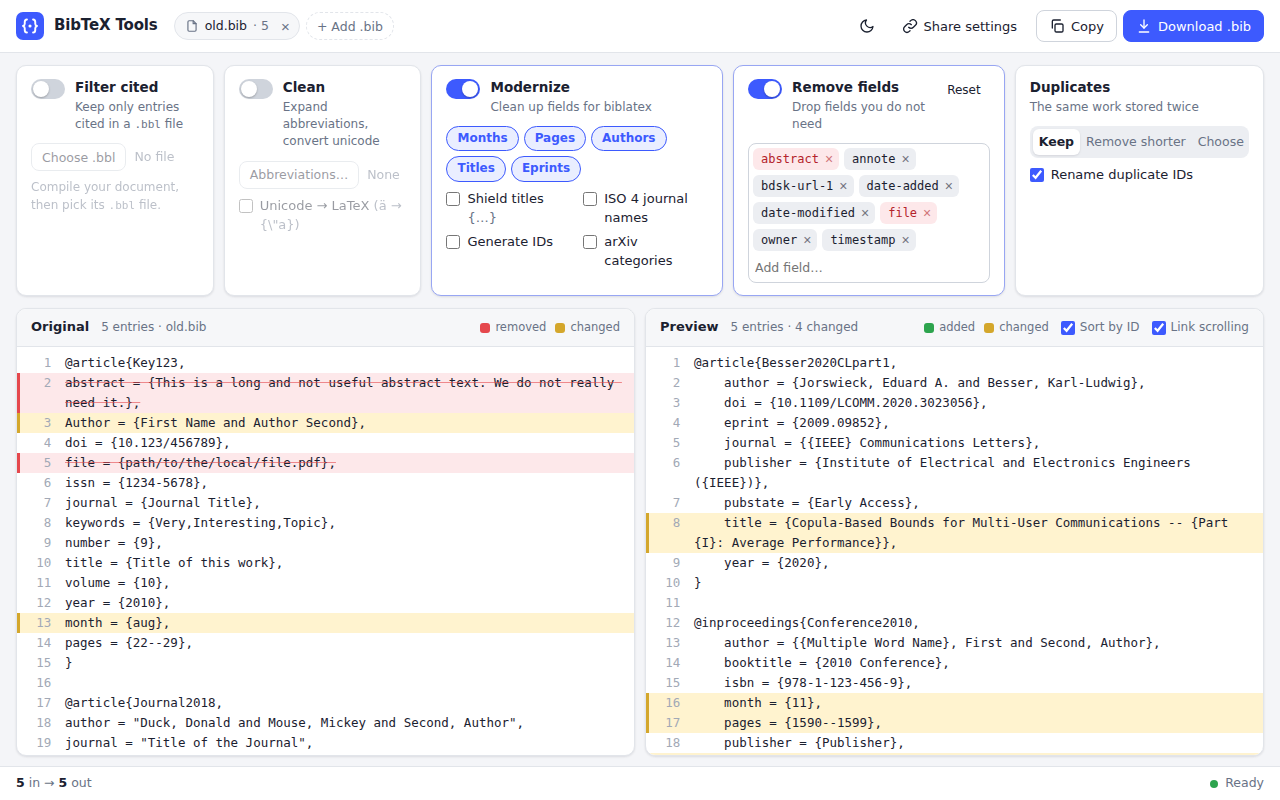
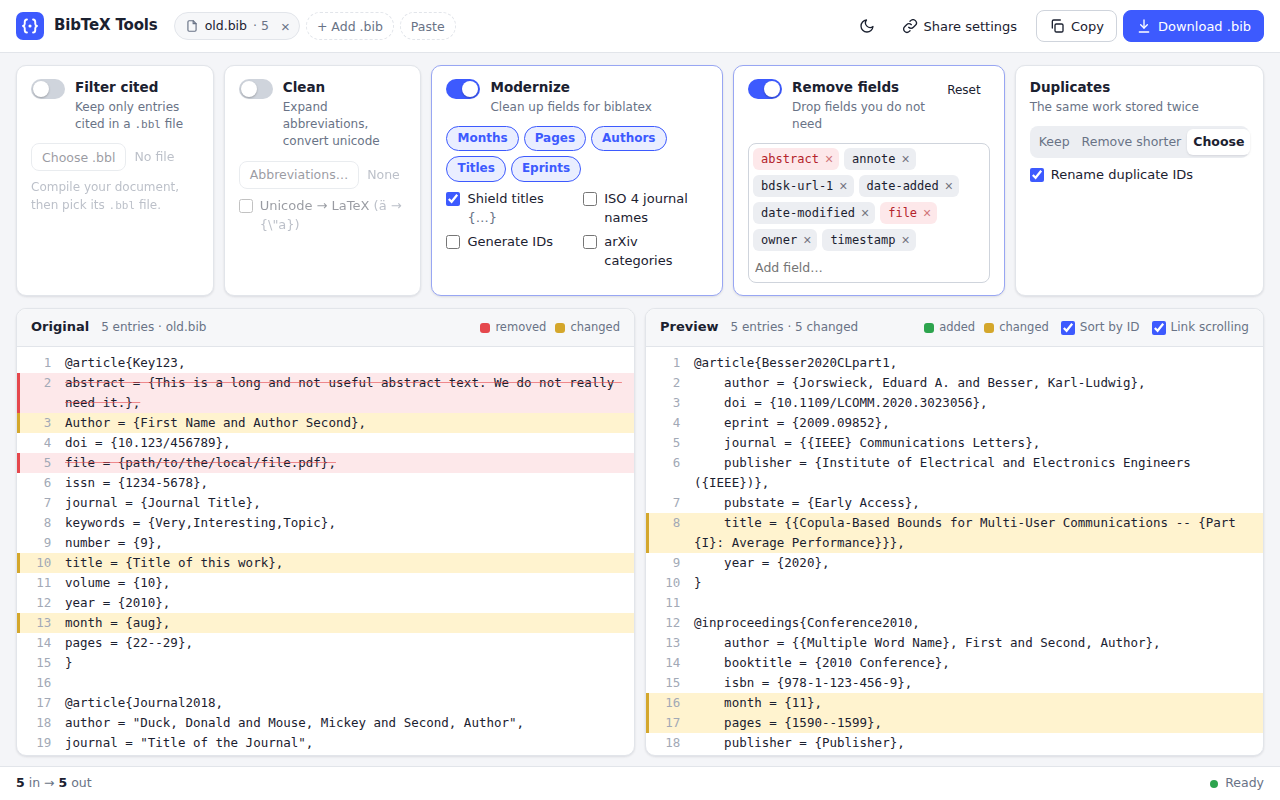
Align the selected entry on both sides and allow pasting BibTeX
- Clicking an entry shows its counterpart at the same height on the other
  side, even if this needs blank space above the first or below the last
  entry. The blank space is removed once it is scrolled out of view. While
  the selected entry is visible, both sides scroll together.
- BibTeX can be pasted anywhere on the page with Ctrl+V, or in a dialog
  from the Paste button. Pasted text is added as another bib file.
- Shield titles and choosing which duplicate entry to remove are on by
  default. The settings are stored under a new key, so that the new
  defaults apply to everybody once.

Claude-Session: https://claude.ai/code/session_015crV5RWQRdw4FFNF6dvHUs

diff --git a/web/app.js b/web/app.js
@@ -4,7 +4,8 @@
 const $ = (selector, root = document) => root.querySelector(selector);
 const $$ = (selector, root = document) => [...root.querySelectorAll(selector)];
 
-const SETTINGS_KEY = "bibtextools.settings.v1";
+// Bumped when the defaults change, so that they apply to everybody once
+const SETTINGS_KEY = "bibtextools.settings.v2";
 const ARXIV_KEY = "bibtextools.arxiv.v1";
 const THEME_KEY = "bibtextools.theme";
 const DUPLICATE_MODES = ["keep", "remove-shorter", "choose"];
@@ -18,9 +19,9 @@ let defaults = {
 const DEFAULT_SETTINGS = {
   filter: { enabled: false },
   clean: { enabled: false, unicode: false },
-  modernize: { enabled: true, fields: null, shield: false, iso4: false, ids: false, arxiv: false },
+  modernize: { enabled: true, fields: null, shield: true, iso4: false, ids: false, arxiv: false },
   remove: { enabled: true, fields: null },
-  duplicates: { mode: "keep", rename: true },
+  duplicates: { mode: "choose", rename: true },
   sort: true,
 };
 
@@ -43,9 +44,18 @@ const state = {
   lastPane: "preview",
 };
 
+// Each pane has blank space above and below its content, which lets an entry
+// be shown at any height, e.g., to align it with the selected entry
+function makePane(el) {
+  const [padTop, content, padBottom] = ["pad", "content", "pad"].map((cls) =>
+    Object.assign(document.createElement("div"), { className: cls }));
+  el.append(padTop, content, padBottom);
+  return { el, content, padTop, padBottom, top: 0, bottom: 0, entries: [], byOrigin: new Map() };
+}
+
 const panes = {
-  original: { el: $("#original"), entries: [], byOrigin: new Map() },
-  preview: { el: $("#preview"), entries: [], byOrigin: new Map() },
+  original: makePane($("#original")),
+  preview: makePane($("#preview")),
 };
 
 /* Helpers */
@@ -86,7 +96,9 @@ function merge(base, extra) {
 
 
 function validSettings(settings) {
-  if (!DUPLICATE_MODES.includes(settings.duplicates.mode)) settings.duplicates.mode = "keep";
+  if (!DUPLICATE_MODES.includes(settings.duplicates.mode)) {
+    settings.duplicates.mode = DEFAULT_SETTINGS.duplicates.mode;
+  }
   return settings;
 }
 
@@ -373,8 +385,10 @@ function setSources(sources) {
   state.error = null;
   state.selected = null;
   document.body.classList.toggle("has-files", sources.length > 0);
-  panes.original.el.scrollTop = 0;
-  panes.preview.el.scrollTop = 0;
+  for (const pane of Object.values(panes)) {
+    setPad(pane, 0, 0);
+    pane.el.scrollTop = 0;
+  }
   render();
   schedule(0);
 }
@@ -421,6 +435,71 @@ document.addEventListener("click", (event) => {
   if (clear) setAuxFile(clear.dataset.clear, null);
 });
 
+/* Paste */
+
+const pasteDialog = $("#paste-dialog");
+const looksLikeBib = (text) => /@\s*\w+\s*[{(]/.test(text);
+
+function pastedName() {
+  const names = new Set(state.sources.map((source) => source.name));
+  let name = "pasted.bib";
+  for (let i = 2; names.has(name); i++) name = `pasted-${i}.bib`;
+  return name;
+}
+
+// Add pasted BibTeX as another bib file. Returns whether it was added.
+function addPasted(text) {
+  if (!looksLikeBib(text)) return false;
+  const name = pastedName();
+  setSources([...state.sources, { name, text }]);
+  toast(`Added the pasted text as ${name}`);
+  return true;
+}
+
+function openPasteDialog() {
+  $("#paste-text").value = "";
+  $("#paste-error").textContent = "";
+  pasteDialog.showModal();
+  $("#paste-text").focus();
+}
+
+function addFromDialog() {
+  const text = $("#paste-text").value;
+  if (addPasted(text)) pasteDialog.close();
+  else $("#paste-error").textContent = "This does not look like BibTeX: no entry like @article{…} found.";
+}
+
+$("#paste-add").addEventListener("click", addFromDialog);
+$("#paste-text").addEventListener("input", () => { $("#paste-error").textContent = ""; });
+$("#paste-text").addEventListener("keydown", (event) => {
+  if (event.key === "Enter" && (event.ctrlKey || event.metaKey)) addFromDialog();
+});
+pasteDialog.addEventListener("click", (event) => {
+  if (event.target === pasteDialog || event.target.closest("[data-dialog-close]")) pasteDialog.close();
+});
+document.addEventListener("click", (event) => {
+  if (event.target.closest("[data-paste]")) openPasteDialog();
+});
+
+// Paste anywhere on the page, except into fields and dialogs
+document.addEventListener("paste", async (event) => {
+  if (event.target.closest("input, textarea, [contenteditable]") || document.querySelector("dialog[open]")) return;
+  const data = event.clipboardData;
+  if (data.files.length) {
+    event.preventDefault();
+    await openFiles(data.files);
+    return;
+  }
+  const text = data.getData("text/plain");
+  if (!text.trim()) return;
+  event.preventDefault();
+  if (!addPasted(text)) toast("The pasted text does not look like BibTeX");
+});
+
+if (/Mac|iPhone|iPad/.test(navigator.platform)) {
+  $$(".paste-key").forEach((key) => { key.textContent = "⌘V"; });
+}
+
 $("#example").addEventListener("click", async () => {
   const response = await fetch("examples/old.bib");
   setSources([{ name: "old.bib", text: await response.text() }]);
@@ -455,7 +534,12 @@ function renderFiles() {
     add.textContent = "+ Add .bib";
     add.title = "Add another bib file to combine them";
     add.dataset.pick = "bib";
-    files.append(add);
+    const paste = document.createElement("button");
+    paste.className = "chip add";
+    paste.textContent = "Paste";
+    paste.title = "Paste BibTeX to add it";
+    paste.dataset.paste = "";
+    files.append(add, paste);
   }
 }
 
@@ -565,13 +649,13 @@ function renderOriginal(outByOrigin, unresolved) {
     }
     for (let i = next; i < lines.length; i++) parts.push(lineHtml(i + 1, lines[i]));
   });
-  panes.original.el.innerHTML = parts.join("");
+  panes.original.content.innerHTML = parts.join("");
 }
 
 function renderPreview(unresolved) {
   const r = state.response;
   if (!r) {
-    panes.preview.el.innerHTML = "";
+    panes.preview.content.innerHTML = "";
     return;
   }
   const parts = [];
@@ -601,7 +685,7 @@ function renderPreview(unresolved) {
   if (!r.entries.length) {
     parts.push(`<div class="l"><span class="n"></span><span class="t muted">No entries left with these settings.</span></div>`);
   }
-  panes.preview.el.innerHTML = parts.join("");
+  panes.preview.content.innerHTML = parts.join("");
 }
 
 function indexPane(pane) {
@@ -742,26 +826,74 @@ function restoreAnchor(pane, anchor) {
   pane.el.scrollTop = el ? el.offsetTop + anchor.offset : anchor.offset;
 }
 
+/* Positions without the blank space above the content ("view") */
+
+const contentTop = (pane, el) => el.offsetTop - pane.top;
+const view = (pane) => pane.el.scrollTop - pane.top;
+const maxView = (pane) =>
+  Math.max(0, pane.el.scrollHeight - pane.top - pane.bottom - pane.el.clientHeight);
+const viewOffset = (pane, el) => el.offsetTop - pane.el.scrollTop;
+
+function setPad(pane, top, bottom) {
+  if (top !== pane.top) {
+    pane.top = top;
+    pane.padTop.style.height = `${top}px`;
+  }
+  if (bottom !== pane.bottom) {
+    pane.bottom = bottom;
+    pane.padBottom.style.height = `${bottom}px`;
+  }
+}
+
+// Scroll the pane to a view position, with blank space where there is no
+// content, e.g., a negative view shows blank space above the first line
+function setView(pane, position) {
+  const max = maxView(pane);
+  setPad(pane, Math.max(0, Math.round(-position)), Math.max(0, Math.round(position - max)));
+  setScroll(pane, position + pane.top);
+}
+
+// Remove the blank space when it is scrolled out of view
+function trimPads(pane) {
+  const position = view(pane);
+  const top = position >= 0 ? 0 : pane.top;
+  const bottom = position <= maxView(pane) ? 0 : pane.bottom;
+  if (top === pane.top && bottom === pane.bottom) return;
+  setPad(pane, top, bottom);
+  setScroll(pane, position + top);
+}
+
+const isVisible = (pane, el) =>
+  viewOffset(pane, el) < pane.el.clientHeight && viewOffset(pane, el) + el.offsetHeight > 0;
+
 let syncing = null;
 
 function syncScroll(from, to) {
   if (!from.entries.length || !to.entries.length) return;
+  // Keep the selected entry at the same height on both sides while it is visible
+  const selected = state.selected && from.byOrigin.get(state.selected);
+  const counterpart = state.selected && to.byOrigin.get(state.selected);
+  if (selected && counterpart && isVisible(from, selected)) {
+    setView(to, contentTop(to, counterpart) - viewOffset(from, selected));
+    return;
+  }
   const y = from.el.scrollTop;
   let idx = entryAt(from, y);
   if (idx < 0) {
-    setScroll(to, 0);
+    setView(to, 0);
     return;
   }
   const el = from.entries[idx];
   const fraction = Math.min(1, (y - el.offsetTop) / Math.max(1, el.offsetHeight));
   // Removed entries have no counterpart: use the next entry that has one
   let target = to.byOrigin.get(el.dataset.origin);
-  let exact = Boolean(target);
+  const exact = Boolean(target);
   while (!target && ++idx < from.entries.length) {
     target = to.byOrigin.get(from.entries[idx].dataset.origin);
   }
   if (!target) return;
-  setScroll(to, exact ? target.offsetTop + fraction * target.offsetHeight : target.offsetTop);
+  const position = contentTop(to, target) + (exact ? fraction * target.offsetHeight : 0);
+  setView(to, Math.min(position, maxView(to)));
 }
 
 function setScroll(pane, top) {
@@ -774,6 +906,8 @@ function setScroll(pane, top) {
 for (const name of ["original", "preview"]) {
   const pane = panes[name];
   pane.el.addEventListener("scroll", () => {
+    clearTimeout(pane.trimTimer);
+    pane.trimTimer = setTimeout(() => trimPads(pane), 250);
     if (syncing === pane) return;
     state.lastPane = name;
     if (state.linkScroll) syncScroll(pane, panes[other(name)]);
@@ -790,8 +924,10 @@ for (const name of ["original", "preview"]) {
   });
 }
 
+// Select an entry on one side and show it at the same height on the other
 function select(origin, fromName) {
   state.selected = state.selected === origin ? null : origin;
+  state.lastPane = fromName;
   for (const pane of Object.values(panes)) {
     pane.entries.forEach((el) => el.classList.toggle("selected", el.dataset.origin === state.selected));
   }
@@ -800,7 +936,7 @@ function select(origin, fromName) {
   const to = panes[other(fromName)];
   const el = from.byOrigin.get(origin);
   const target = to.byOrigin.get(origin);
-  if (el && target) setScroll(to, target.offsetTop - (el.offsetTop - from.el.scrollTop));
+  if (el && target) setView(to, contentTop(to, target) - viewOffset(from, el));
 }
 
 /* Duplicates dialog */

diff --git a/web/style.css b/web/style.css
@@ -364,6 +364,7 @@ h1, h2, h3 { margin: 0; }
   flex: 1;
   min-height: 0;
   overflow: auto;
+  overflow-anchor: none;
   position: relative;
   padding: 6px 0 24px;
   font: 12.5px/1.6 var(--code-font);
@@ -475,6 +476,15 @@ body.dragging .drop-card { border-color: var(--accent); background: var(--accent
 .drop-card h1 { font-size: 20px; font-weight: 650; letter-spacing: -.01em; }
 .drop-card > p { margin: 8px auto 0; color: var(--muted); max-width: 400px; }
 .drop-actions { display: flex; justify-content: center; gap: 10px; margin-top: 22px; }
+.paste-hint { margin: 14px 0 0 !important; font-size: 12.5px; }
+kbd {
+  padding: 1px 6px;
+  border: 1px solid var(--border-strong);
+  border-bottom-width: 2px;
+  border-radius: 5px;
+  background: var(--surface-2);
+  font: 11.5px var(--code-font);
+}
 .privacy { display: inline-flex; align-items: center; gap: 6px; margin-top: 22px !important; font-size: 12px; }
 .privacy svg { width: 14px; height: 14px; }
 
@@ -549,6 +559,26 @@ body.has-files.dragging .workspace { outline: 2px dashed var(--accent); outline-
 .dup-side.kept .dup-state { color: var(--add-bar); }
 .dup-side .l.only { background: var(--dup-bg); border-left-color: var(--dup-bar); }
 .dialog-foot { display: flex; align-items: center; gap: 8px; padding: 14px 20px 18px; }
+.dialog-foot .hint { color: var(--rm-text); }
+.paste-dialog { width: min(820px, calc(100vw - 32px)); }
+.paste-dialog .dialog-head { flex-wrap: wrap; row-gap: 2px; }
+.paste-dialog .dialog-head .meta { order: 3; flex-basis: 100%; }
+.paste-dialog .dialog-head .icon-btn { margin-left: auto; }
+#paste-text {
+  display: block;
+  width: calc(100% - 40px);
+  height: min(52vh, 460px);
+  margin: 8px 20px 0;
+  padding: 10px 12px;
+  resize: vertical;
+  border: 1px solid var(--border-strong);
+  border-radius: 8px;
+  background: var(--surface-2);
+  color: var(--text);
+  font: 12.5px/1.55 var(--code-font);
+  tab-size: 4;
+}
+#paste-text:focus { outline: 0; border-color: var(--accent); box-shadow: 0 0 0 3px var(--accent-soft); }
 .spacer { flex: 1; }
 
 /* Toast */
@@ -616,4 +646,5 @@ body.has-files.dragging .workspace { outline: 2px dashed var(--accent); outline-
   .pane-head { flex-wrap: wrap; row-gap: 4px; }
   .drop-card { padding: 32px 20px; }
   .drop-actions { flex-direction: column; }
+  .drop-actions .btn { justify-content: center; }
 }

diff --git a/web/index.html b/web/index.html
@@ -151,8 +151,10 @@
         <p>Toggle the settings above and see the result next to the original, before you download it.</p>
         <div class="drop-actions">
           <button class="btn primary large" data-pick="bib">Open .bib files</button>
+          <button class="btn large" data-paste>Paste BibTeX</button>
           <button class="btn large" id="example">Try an example</button>
         </div>
+        <p class="paste-hint">You can also paste anywhere on this page with <kbd class="paste-key">Ctrl+V</kbd>.</p>
         <p class="privacy">
           <svg viewBox="0 0 24 24" aria-hidden="true"><rect x="5" y="11" width="14" height="10" rx="2"/><path d="M8 11V7a4 4 0 0 1 8 0v4"/></svg>
           Your files never leave your computer. Everything runs in your browser.
@@ -216,6 +218,24 @@
       <button class="btn" id="dup-next">Next →</button>
       <span class="spacer"></span>
       <button class="btn primary" data-dialog-close>Done</button>
+    </footer>
+  </dialog>
+
+  <dialog class="dialog paste-dialog" id="paste-dialog" aria-labelledby="paste-title">
+    <header class="dialog-head">
+      <h2 id="paste-title">Paste BibTeX</h2>
+      <span class="meta">Paste the content of a bib file, e.g., copied from Google Scholar or your reference manager.</span>
+      <button class="btn ghost icon-btn" data-dialog-close aria-label="Close">×</button>
+    </header>
+    <textarea id="paste-text" spellcheck="false" autocomplete="off" aria-label="BibTeX to add" placeholder="@article{key,
+  author = {…},
+  title = {…},
+}"></textarea>
+    <footer class="dialog-foot">
+      <span class="hint" id="paste-error"></span>
+      <span class="spacer"></span>
+      <button class="btn" data-dialog-close>Cancel</button>
+      <button class="btn primary" id="paste-add">Add</button>
     </footer>
   </dialog>
 

diff --git a/README.md b/README.md
@@ -19,9 +19,11 @@ next to the result with the current settings, before you download it:
 
 * Switch the steps of all commands on and off at the top: `filter-cited` (with
   your `.bbl` file), `clean`, `modernize`, removing fields, and duplicate
-  entries.  Open multiple bib files to `combine` them.
+  entries.  Open, drop, or paste (Ctrl+V) bib files.  Multiple bib files are
+  combined like with `combine`.
 * Changed fields are highlighted on both sides, and removed fields and entries
-  are marked in the original.  Click an entry to find it on the other side.
+  are marked in the original.  Click an entry to show it at the same height on
+  the other side.
 * Choose which entry of each pair of duplicate entries to remove.
 * _Share settings_ copies a link with your settings (not your files) for your
   colleagues.
